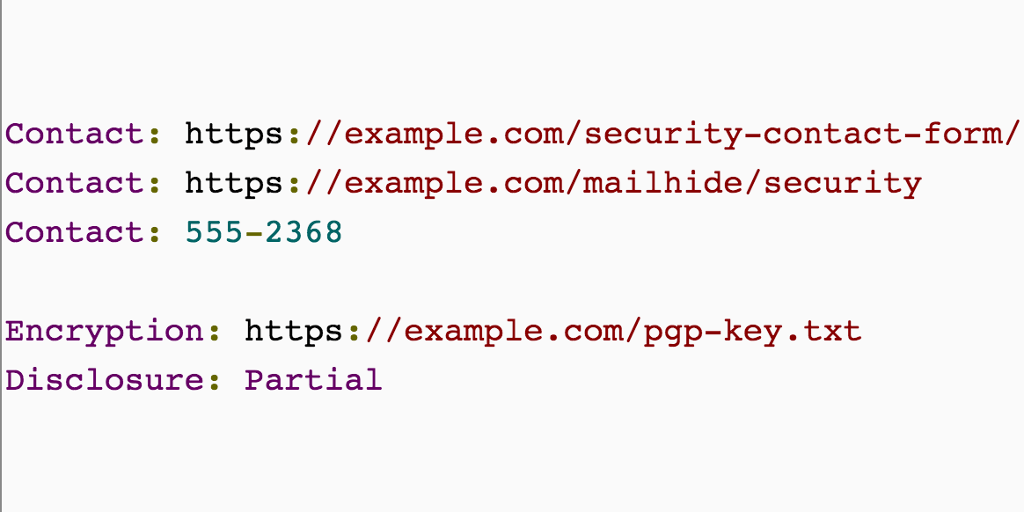
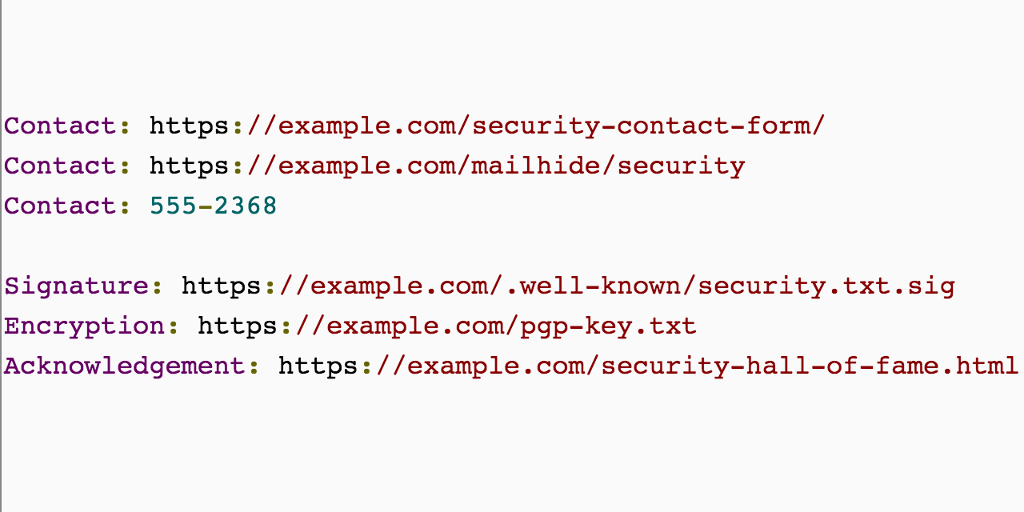
Updating security.txt article according to new draft.

Changed region(s): [[0.0, 0.2188, 1.0, 0.5], [0.0, 0.625, 1.0, 0.7812], [0.0, 0.5312, 0.9375, 0.5938]]

diff --git a/contents_json.js b/contents_json.js
@@ -654,10 +654,11 @@ window.SpaBlog = window.SpaBlog || {}; // Our namespace
             {
                 "title": "Add security.txt to your site",
                 "published": true,
-                "publishDate": "2017-11-04T14:30:00.000Z",
+                "publishDate": "2017-11-04T14:35:00.000Z",
+                "updateDate": "2017-11-05T19:15:00.000Z",
                 "summary": "Sometimes it's really difficult and time consuming to find a way to report a security vulnerability. But there is a very simple solution for that.",
                 "niceUrl": "/2017/11/security-txt",
-                "text": "<h4>tl;dr</h4><a href=\"https://twitter.com/edoverflow\">Ed Foudil</a> has proposed <span class=\"code\">security.txt</span> as a standard method for making it easier to report security issues. It's a plain text file with contact info that should be located in the top-level directory of a site. Currently it's a \"Internet draft\" that has been submitted for <a href=\"https://en.wikipedia.org/wiki/Request_for_Comments\">RFC</a> review.\n                \n<h4>Why we need security.txt</h4>Over the last three months I have <a href=\"/category/security\">published 12 fresh security issues</a> on my blog. While finding the issues has typically only taken a few minutes, finding somewhere to report the issue sometimes have be a real pain and very time consuming.\n\nIn most cases I have had to contact first-line customer support and try to write in a way that will ensure that they understand that they need to report this to the right party. Often this can work ok, but <b>I have even experienced to be turned down by the customer support because they have not understood what I was trying to tell them.</b>\n\n<h5>IKEA</h5>In <a href=\"/2017/10/ikea-name-leak\">the case with IKEA</a> I spent so much time trying to find the correct contact point. They had no general e-mail addresses or anything anywhere. <b>I ended up e-mailing three press contacts with the issues, and it took three weeks before I got their attention and got to tell them what the issue actually was. And according to IKEA this is actually the way any security issue should be reported.</b> <span class=\"code\">security.txt</span> would have been a much better solution.\n\n<h5>Gjensidige</h5>In <a href=\"/2017/10/gjensidige-leak\">the case with the insurance company Gjensidige</a> <b>they managed to lose one of two reports before it reached the IT department</b>. <span class=\"code\">security.txt</span> would have solved this nicely.\n\n<h5>Tryg and Infotorg</h5>In <a href=\"/2017/08/get-your-ssn-here\">the case with 1 million+ Norwegian Social Security numbers etc. available</a> <b>the insurance company Tryg did not read the e-mails sent to the specified contact e-mail address, and Infotorg - who was responsible for the delievering the data - just stopped responding.</b> It was probably a lost case for Infotorg, but at least Tryg would have been notified with a <span class=\"code\">security.txt</span>.\n\n<h5>Project site with SQL injection</h5>In <a href=\"/2017/10/10-years-of-injection\">the case with the company vulnerable for for SQL injection for 10 years</a> I did not know if their customer support form worked at all as I never got a reply. Writing to an e-mail address specified in <span class=\"code\">security.txt</span> would've helped here.\n\n<h5>In general</h5>In most cases the info would have been delievered directly to the correct persons instead of being delayed in some kind of first-line of customer support. You want it to make it easy to report a security issue, and you want the report to get to the right destination asap.\n\n<h4>How to write security.txt</h4>It's a really simple standard. And simple is indeed beautiful. <span class=\"code\">security.txt</span> should be a plain text file located in the top-level directory of the site. Just like with <a class=\"code\" href=\"https://en.wikipedia.org/wiki/Robots_exclusion_standard\">robots.txt</a>.\n\n<h5>Contact directive</h5>The only directive that must be present in <span class=\"code\">security.txt</span> is <span class=\"code\">Contact</span>, which lets you specify either an e-mail address (maybe not very smart considering spam) or a phone number or a URI that provides contact info.\n\nFor my own <a class=\"code\" href=\"/security.txt\">security.txt</a> I have used Google's <a href=\"https://www.google.com/recaptcha/admin#mailhide\">reCAPTCHA Mailhide</a> and a link to <a href=\"https://twitter.com/roysolberg\">my own Twitter account</a>.\n\n<h5>Disclosure directive</h5>There's also a <span class=\"code\">Disclosure</span> directive where you can specify your disclosure policy. For this one I wish there was either a better specification for what the allowed values actually means or a reference to a standard for this. At least the propsal currently states <i>\"The presence of a disclosure field is NOT permission to disclose vulnerabilities and explicit permission MUST be saught where possible.\"</i>\n\n<h5>Encryption directive</h5>The <span class=\"code\">Encryption</span> lets you add your key for encrypted communication, like your <a href=\"https://en.wikipedia.org/wiki/Pretty_Good_Privacy\">PGP</a> key or similar.\n\n<h5>Acknowledgement directive</h5>The <span class=\"code\">Acknowledgement</span> allows you to link to a page where security researchers are recognized for their reports.\n\n<h5>It's a proposal</h5>It's a proposal, so be sure to check out <a href=\"https://securitytxt.org\">securitytxt.org</a> for the latest update of the specification.\n\n<h4>Example security.txt</h4><pre class=\"prettyprint\">Contact: https://example.com/security-contact-form/\nContact: https://example.com/mailhide/security\nContact: 555-2368\n\nEncryption: https://example.com/pgp-key.txt\nDisclosure: Partial</pre>\n<h4>Conclusion</h4>This is one is easy. Please add support for <span class=\"code\">security.txt</span> - as soon as you can - to make the web a safer and more secure place for us all.\n",
+                "text": "<h4>tl;dr</h4><a href=\"https://twitter.com/edoverflow\">Ed Foudil</a> has proposed <span class=\"code\">security.txt</span> as a standard method for making it easier to report security issues. It's a plain text file with contact info that should be located in the <span class=\"code\">.well-known</span> directory of a web site (or root of a file system). Currently it's a \"Internet draft\" that has been submitted for <a href=\"https://en.wikipedia.org/wiki/Request_for_Comments\">RFC</a> review.\n                \n<h4>Why we need security.txt</h4>Over the last three months I have <a href=\"/category/security\">published 12 fresh security issues</a> on my blog. While finding the issues has typically only taken a few minutes, finding somewhere to report the issue sometimes have be a real pain and very time consuming.\n\nIn most cases I have had to contact first-line customer support and try to write in a way that will ensure that they understand that they need to report this to the right party. Often this can work ok, but <b>I have even experienced to be turned down by the customer support because they have not understood what I was trying to tell them.</b>\n\n<h5>IKEA</h5>In <a href=\"/2017/10/ikea-name-leak\">the case with IKEA</a> I spent so much time trying to find the correct contact point. They had no general e-mail addresses or anything anywhere. <b>I ended up e-mailing three press contacts with the issues, and it took three weeks before I got their attention and got to tell them what the issue actually was. And according to IKEA this is actually the way any security issue should be reported.</b> <span class=\"code\">security.txt</span> would have been a much better solution.\n\n<h5>Gjensidige</h5>In <a href=\"/2017/10/gjensidige-leak\">the case with the insurance company Gjensidige</a> <b>they managed to lose one of two reports before it reached the IT department</b>. <span class=\"code\">security.txt</span> would have solved this nicely.\n\n<h5>Tryg and Infotorg</h5>In <a href=\"/2017/08/get-your-ssn-here\">the case with 1 million+ Norwegian Social Security numbers etc. exposed</a>, <b>the insurance company Tryg did not read the e-mails sent to the specified contact e-mail address, and Infotorg - who was responsible for the delievering the data - just stopped responding.</b> It was probably a lost case for Infotorg, but at least Tryg would have been notified with a <span class=\"code\">security.txt</span>.\n\n<h5>Project site with SQL injection</h5>In <a href=\"/2017/10/10-years-of-injection\">the case with the company vulnerable for for SQL injection for 10 years</a> I did not know if their customer support form worked at all as I never got a reply. Writing to an e-mail address specified in <span class=\"code\">security.txt</span> would've helped here.\n\n<h5>In general</h5>In most cases the info would have been delievered directly to the correct persons instead of being delayed in some kind of first-line of customer support. You want it to make it easy to report a security issue, and you want the report to get to the right destination asap.\n\n<h4>How to write security.txt</h4>It's a really simple standard. And simple is indeed beautiful. <span class=\"code\">security.txt</span> should be a plain text file located in the <span class=\"code\">.well-known</span> directory of the site, just like <a href=\"https://www.iana.org/assignments/well-known-uris/well-known-uris.xhtml\">a bunch of others</a> as per <a href=\"https://tools.ietf.org/html/rfc5785\">RFC 5785</a>.\n\n<h5>Contact directive</h5>The only directive that must be present in <span class=\"code\">security.txt</span> is <span class=\"code\">Contact</span>, which lets you specify either an e-mail address (maybe not very smart considering spam) or a phone number or a URI that provides contact info. The order defines the preferred method of contact.\n\nFor my own <a class=\"code\" href=\"/.well-known/security.txt\">security.txt</a> I have used Google's <a href=\"https://www.google.com/recaptcha/admin#mailhide\">reCAPTCHA Mailhide</a> and a link to <a href=\"https://twitter.com/roysolberg\">my own Twitter account</a>.\n\n<h5>Signature directive</h5>In order to ensure the authenticty of the <span class=\"code\">security.txt</span> one should use the <span class=\"code\">Signature</span> directive to sign it using either an external or internal signature.\n\n<h5>Encryption directive</h5>The <span class=\"code\">Encryption</span> lets you add your key for encrypted communication, like your <a href=\"https://en.wikipedia.org/wiki/Pretty_Good_Privacy\">PGP</a> key or similar.\n\n<h5>Acknowledgement directive</h5>The <span class=\"code\">Acknowledgement</span> allows you to link to a page where security researchers are recognized for their reports.\n\n<h5>It's a proposal</h5>It's a proposal, so be sure to check out <a href=\"https://securitytxt.org\">securitytxt.org</a> for the latest update of the specification. Also, at the time of writing, you should take a look at <a href=\"https://github.com/securitytxt/security-txt/tree/draft\">the draft branch at https://github.com/securitytxt/</a> for the latest development. There's also some interesting discussions on the <a href=\"https://github.com/securitytxt/security-txt/issues?q=\">issue tracker of the same project</a>.\n\n<h4>Example security.txt</h4><pre class=\"prettyprint\">Contact: https://example.com/security-contact-form/\nContact: https://example.com/mailhide/security\nContact: 555-2368\n\nSignature: https://example.com/.well-known/security.txt.sig\nEncryption: https://example.com/pgp-key.txt\nAcknowledgement: https://example.com/security-hall-of-fame.html</pre>\n<h4>Conclusion</h4>This is one is easy. Please add support for <span class=\"code\">security.txt</span> - as soon as you can - to make the web a safer and more secure place for us all.\n",
                 "images": ["/images/security.png"],
                 "links": [],
                 "category":

diff --git a/contents.js b/contents.js
@@ -1950,9 +1950,10 @@ While I understand that not everybody has the flexible server environments like 
                 "title": "Add security.txt to your site",
                 "published": true,
                 "publishDate": "2017-11-04T14:35:00.000Z",
+                "updateDate": "2017-11-05T20:15:00.000Z",
                 "summary": "Sometimes it's really difficult and time consuming to find a way to report a security vulnerability. But there is a very simple solution for that.",
                 "niceUrl": "/2017/11/security-txt",
-                "text": `<h4>tl;dr</h4><a href="https://twitter.com/edoverflow">Ed Foudil</a> has proposed <span class="code">security.txt</span> as a standard method for making it easier to report security issues. It's a plain text file with contact info that should be located in the top-level directory of a site. Currently it's a "Internet draft" that has been submitted for <a href="https://en.wikipedia.org/wiki/Request_for_Comments">RFC</a> review.
+                "text": `<h4>tl;dr</h4><a href="https://twitter.com/edoverflow">Ed Foudil</a> has proposed <span class="code">security.txt</span> as a standard method for making it easier to report security issues. It's a plain text file with contact info that should be located in the <span class="code">.well-known</span> directory of a web site (or root of a file system). Currently it's a "Internet draft" that has been submitted for <a href="https://en.wikipedia.org/wiki/Request_for_Comments">RFC</a> review.
                 
 <h4>Why we need security.txt</h4>Over the last three months I have <a href="/category/security">published 12 fresh security issues</a> on my blog. While finding the issues has typically only taken a few minutes, finding somewhere to report the issue sometimes have be a real pain and very time consuming.
 
@@ -1962,32 +1963,33 @@ In most cases I have had to contact first-line customer support and try to write
 
 <h5>Gjensidige</h5>In <a href="/2017/10/gjensidige-leak">the case with the insurance company Gjensidige</a> <b>they managed to lose one of two reports before it reached the IT department</b>. <span class="code">security.txt</span> would have solved this nicely.
 
-<h5>Tryg and Infotorg</h5>In <a href="/2017/08/get-your-ssn-here">the case with 1 million+ Norwegian Social Security numbers etc. available</a> <b>the insurance company Tryg did not read the e-mails sent to the specified contact e-mail address, and Infotorg - who was responsible for the delievering the data - just stopped responding.</b> It was probably a lost case for Infotorg, but at least Tryg would have been notified with a <span class="code">security.txt</span>.
+<h5>Tryg and Infotorg</h5>In <a href="/2017/08/get-your-ssn-here">the case with 1 million+ Norwegian Social Security numbers etc. exposed</a>, <b>the insurance company Tryg did not read the e-mails sent to the specified contact e-mail address, and Infotorg - who was responsible for the delievering the data - just stopped responding.</b> It was probably a lost case for Infotorg, but at least Tryg would have been notified with a <span class="code">security.txt</span>.
 
 <h5>Project site with SQL injection</h5>In <a href="/2017/10/10-years-of-injection">the case with the company vulnerable for for SQL injection for 10 years</a> I did not know if their customer support form worked at all as I never got a reply. Writing to an e-mail address specified in <span class="code">security.txt</span> would've helped here.
 
 <h5>In general</h5>In most cases the info would have been delievered directly to the correct persons instead of being delayed in some kind of first-line of customer support. You want it to make it easy to report a security issue, and you want the report to get to the right destination asap.
 
-<h4>How to write security.txt</h4>It's a really simple standard. And simple is indeed beautiful. <span class="code">security.txt</span> should be a plain text file located in the top-level directory of the site. Just like with <a class="code" href="https://en.wikipedia.org/wiki/Robots_exclusion_standard">robots.txt</a>.
+<h4>How to write security.txt</h4>It's a really simple standard. And simple is indeed beautiful. <span class="code">security.txt</span> should be a plain text file located in the <span class="code">.well-known</span> directory of the site, just like <a href="https://www.iana.org/assignments/well-known-uris/well-known-uris.xhtml">a bunch of others</a> as per <a href="https://tools.ietf.org/html/rfc5785">RFC 5785</a>.
 
-<h5>Contact directive</h5>The only directive that must be present in <span class="code">security.txt</span> is <span class="code">Contact</span>, which lets you specify either an e-mail address (maybe not very smart considering spam) or a phone number or a URI that provides contact info.
+<h5>Contact directive</h5>The only directive that must be present in <span class="code">security.txt</span> is <span class="code">Contact</span>, which lets you specify either an e-mail address (maybe not very smart considering spam) or a phone number or a URI that provides contact info. The order defines the preferred method of contact.
 
-For my own <a class="code" href="/security.txt">security.txt</a> I have used Google's <a href="https://www.google.com/recaptcha/admin#mailhide">reCAPTCHA Mailhide</a> and a link to <a href="https://twitter.com/roysolberg">my own Twitter account</a>.
+For my own <a class="code" href="/.well-known/security.txt">security.txt</a> I have used Google's <a href="https://www.google.com/recaptcha/admin#mailhide">reCAPTCHA Mailhide</a> and a link to <a href="https://twitter.com/roysolberg">my own Twitter account</a>.
 
-<h5>Disclosure directive</h5>There's also a <span class="code">Disclosure</span> directive where you can specify your disclosure policy. For this one I wish there was either a better specification for what the allowed values actually means or a reference to a standard for this. At least the propsal currently states <i>\"The presence of a disclosure field is NOT permission to disclose vulnerabilities and explicit permission MUST be saught where possible.\"</i>
+<h5>Signature directive</h5>In order to ensure the authenticty of the <span class="code">security.txt</span> one should use the <span class="code">Signature</span> directive to sign it using either an external or internal signature.
 
 <h5>Encryption directive</h5>The <span class="code">Encryption</span> lets you add your key for encrypted communication, like your <a href="https://en.wikipedia.org/wiki/Pretty_Good_Privacy">PGP</a> key or similar.
 
 <h5>Acknowledgement directive</h5>The <span class="code">Acknowledgement</span> allows you to link to a page where security researchers are recognized for their reports.
 
-<h5>It's a proposal</h5>It's a proposal, so be sure to check out <a href="https://securitytxt.org">securitytxt.org</a> for the latest update of the specification.
+<h5>It's a proposal</h5>It's a proposal, so be sure to check out <a href="https://securitytxt.org">securitytxt.org</a> for the latest update of the specification. Also, at the time of writing, you should take a look at <a href="https://github.com/securitytxt/security-txt/tree/draft">the draft branch at https://github.com/securitytxt/</a> for the latest development. There's also some interesting discussions on the <a href="https://github.com/securitytxt/security-txt/issues?q=">issue tracker of the same project</a>.
 
 <h4>Example security.txt</h4><pre class="prettyprint">Contact: https://example.com/security-contact-form/
 Contact: https://example.com/mailhide/security
 Contact: 555-2368
 
+Signature: https://example.com/.well-known/security.txt.sig
 Encryption: https://example.com/pgp-key.txt
-Disclosure: Partial</pre>
+Acknowledgement: https://example.com/security-hall-of-fame.html</pre>
 <h4>Conclusion</h4>This is one is easy. Please add support for <span class="code">security.txt</span> - as soon as you can - to make the web a safer and more secure place for us all.
 `,
                 "images": ["/images/security.png"],

diff --git a/index.html b/index.html
@@ -11,7 +11,7 @@
   <link type="text/css" rel="stylesheet" href="https://cdn.rawgit.com/roys/js-web-blog/4c063477/css/materialize.min.css" />
   <link type="text/css" rel="stylesheet" href="https://cdn.rawgit.com/roys/js-web-blog/4c063477/css/jqcloud.min.css" />
   <link type="text/css" rel="stylesheet" href="/css/blog.css?v=3" />
-  <script type="text/javascript" src="/contents_json.js?v=23"></script>
+  <script type="text/javascript" src="/contents_json.js?v=24"></script>
   <script type="text/javascript" src="https://cdnjs.cloudflare.com/ajax/libs/knockout/3.4.2/knockout-min.js"></script>
   <script type="text/javascript" src="https://code.jquery.com/jquery-3.2.1.min.js"></script>
   <script type="text/javascript" src="https://cdn.rawgit.com/roys/js-web-blog/4c063477/js/materialize.min.js"></script>
